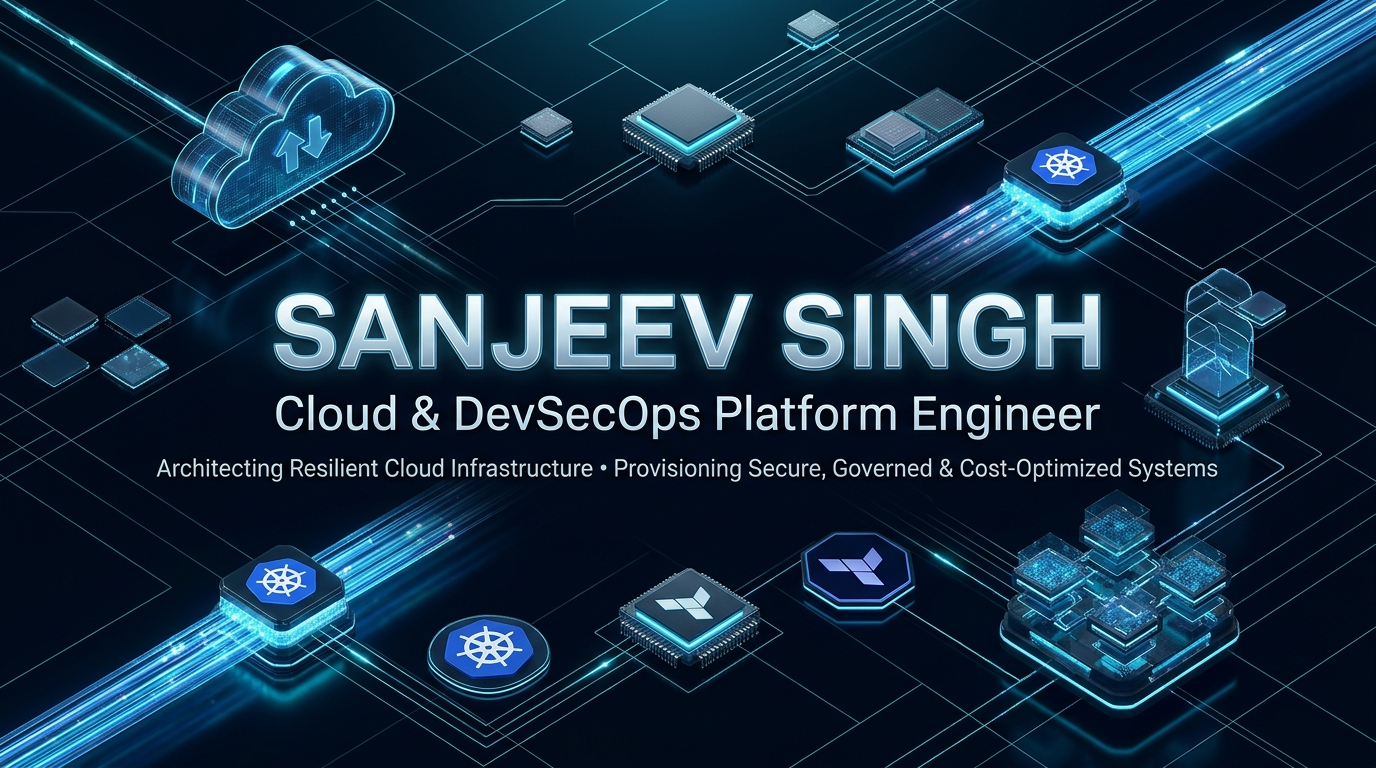
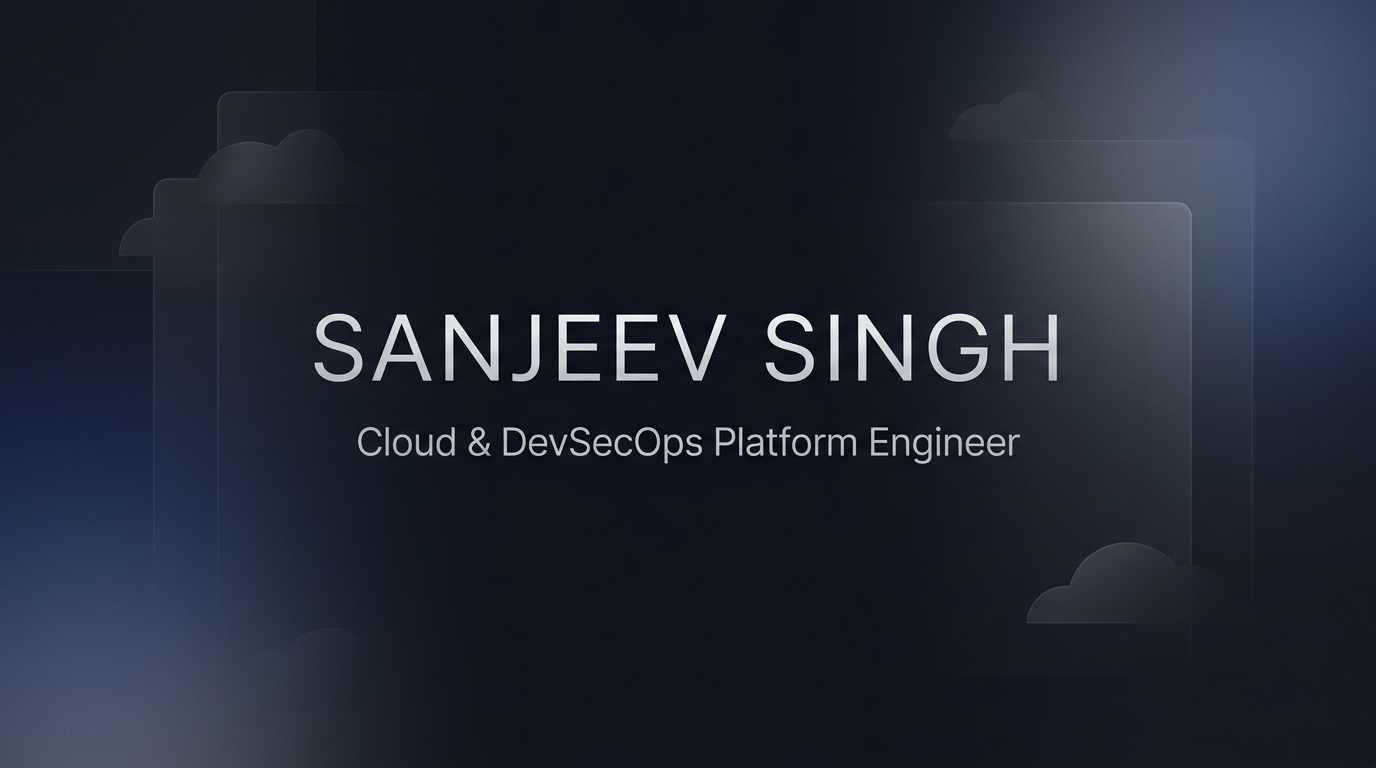
style(profile): switch to calm luxury frosted aesthetic, 720px card width, and authoritative legacy headline

diff --git a/README.md b/README.md
@@ -1,13 +1,13 @@
 <div align="center">
 
-<!-- Hero Banner (Optimized 850px Width, Modern Sans-Serif Typography) -->
+<!-- Hero Banner (Compact 720px Width, Calm Soft Luxury Minimalist Aesthetic) -->
 <p align="center">
-  <img src="./assets/banner.png" alt="Sanjeev Singh - Cloud & DevSecOps Platform Engineer" width="850" style="max-width: 100%; height: auto; border-radius: 10px;">
+  <img src="./assets/banner.png" alt="Sanjeev Singh - Cloud & DevSecOps Platform Engineer" width="720" style="max-width: 100%; height: auto; border-radius: 12px;">
 </p>
 
 <!-- Animated Dynamic Typing Banner -->
 <a href="https://linkedin.com/in/sanjiivsingh">
-  <img src="https://readme-typing-svg.demolab.com?font=Fira+Code&weight=600&size=20&duration=3000&pause=1000&color=0078D4&background=0d111700&center=true&vCenter=true&width=850&height=45&lines=Cloud+%26+DevSecOps+Platform+Engineer;Architecting+Resilient+Cloud+Infrastructure;Provisioning+Secure%2C+Governed+%26+Cost-Optimized+Systems;Enterprise+Terraform+IaC+%7C+Reusable+Child+Modules;Zero-Trust+Security+%7C+Shift-Left+DevSecOps+Guardrails;Kubernetes+(AKS)+%7C+Docker+%7C+Automated+CI%2FCD" alt="Typing Animation" />
+  <img src="https://readme-typing-svg.demolab.com?font=Fira+Code&weight=600&size=18&duration=3000&pause=1000&color=38BDF8&background=0d111700&center=true&vCenter=true&width=720&height=42&lines=Cloud+%26+DevSecOps+Platform+Engineer;Architecting+Resilient+Cloud+Infrastructure;Provisioning+Secure%2C+Governed+%26+Cost-Optimized+Systems;Enterprise+Terraform+IaC+%7C+Reusable+Child+Modules;Zero-Trust+Security+%7C+Shift-Left+DevSecOps+Guardrails;Kubernetes+(AKS)+%7C+Docker+%7C+Automated+CI%2FCD" alt="Typing Animation" />
 </a>
 
 <br>
@@ -45,8 +45,7 @@
 
 <!-- Fast Navigation Menu -->
 <p align="center">
-  <a href="#-executive-video-intro--tech-ambient-soundscape"><b>Video &amp; Soundscape</b></a> •
-  <a href="#-cloud-infrastructure--devsecops-architecture"><b>Executive Profile</b></a> •
+  <a href="#-enterprise-engineering-philosophy--production-track-record"><b>Engineering Philosophy</b></a> •
   <a href="#-devsecops-pipeline--continuous-delivery-architecture"><b>DevSecOps Pipeline</b></a> •
   <a href="#-featured-engineering-projects"><b>Featured Projects</b></a> •
   <a href="#-core-technical-stack--skills-matrix"><b>Skills Matrix</b></a> •
@@ -59,45 +58,16 @@
 
 ---
 
-# 🎙 Executive Video Intro & Tech Ambient Soundscape
-
-<div align="center">
-
-<p align="center">
-  <a href="https://sanjeevsingh.oneps.in">
-    <img src="./assets/media-player.svg" alt="Executive Video Intro & Continuous Tech Ambient Sound" width="850" style="max-width: 100%; height: auto; border-radius: 10px;" />
-  </a>
-</p>
-
-<p align="center">
-  <a href="https://sanjeevsingh.oneps.in" target="_blank">
-    <img src="https://img.shields.io/badge/▶_Watch_Video-Architecture_Walkthrough_(2:15)-0078D4?style=for-the-badge&logo=youtube&logoColor=white" alt="Watch Video" />
-  </a>
-  <a href="https://open.spotify.com/playlist/37i9dQZF1DXdLEN7aqioXM" target="_blank">
-    <img src="https://img.shields.io/badge/🎧_Play_Ambient_Tech-Spotify_Focus_Beats-1DB954?style=for-the-badge&logo=spotify&logoColor=white" alt="Play Spotify" />
-  </a>
-  <a href="https://soundcloud.com/search?q=cyberpunk%20synthwave%20ambient%20focus" target="_blank">
-    <img src="https://img.shields.io/badge/🔊_Play_Synthwave-SoundCloud_Stream-FF5500?style=for-the-badge&logo=soundcloud&logoColor=white" alt="Play SoundCloud" />
-  </a>
-</p>
-
-</div>
-
-> [!NOTE]
-> **Interactive Multimedia Experience:** GitHub Markdown sanitization prevents unprompted background audio autoplay. Click the interactive media player or quick-launch badges above to launch the architecture walkthrough and stream continuous low-latency ambient tech focus music while exploring the repositories below.
-
----
-
-# ⚡ Cloud Infrastructure & DevSecOps Architecture
+# 🏛 Enterprise Engineering Philosophy & Production Track Record
 
 I am a **Cloud & DevSecOps Platform Engineer** with **10+ years of professional engineering and banking governance experience**, including **5+ years architecting Microsoft Azure platforms, modular Terraform IaC, and automated CI/CD security guardrails**.
 
-### 💼 Engineering Impact at a Glance:
-- **High-Concurrency Production Systems:** Automated and operated Azure infrastructure for a US-based futures proprietary trading platform supporting high concurrent load, achieving zero-drift modular IaC and rapid deployment cycles.
-- **Enterprise DevSecOps Guardrails:** Shift-left security specialist enforcing automated quality gates (**TFLint**, **Checkov**, **tfsec**, **Trivy**, and **Gitleaks**) directly inside GitHub Actions and Azure DevOps pipelines.
-- **Banking Governance & Risk Rigor:** 4+ years as **Assistant Manager – Banking Operations / Risk & Compliance at State Bank of India (SBI)**, translating institutional risk controls, least-privilege RBAC, and audit readiness directly into cloud infrastructure.
+### 💼 Three-Pillar Engineering Legacy & Production Track Record:
+- **High-Concurrency Trading Systems at Scale:** Automated and operated Azure infrastructure for a US-based futures proprietary trading platform supporting high concurrent load, achieving zero-drift modular IaC, automated multi-stage rollouts, and sub-minute recovery.
+- **Enterprise DevSecOps & Shift-Left Guardrails:** Automated security specialist enforcing rigorous quality gates (**TFLint**, **Checkov**, **tfsec**, **Trivy**, and **Gitleaks**) directly inside GitHub Actions and Azure DevOps pipelines to preemptively eliminate vulnerabilities before code merge.
+- **Institutional Risk & Banking Governance Heritage:** 4+ years as **Assistant Manager – Banking Operations / Risk & Compliance at State Bank of India (SBI)**, translating institutional risk controls, least-privilege RBAC, and audit readiness directly into cloud infrastructure.
 
-### 🎯 Business Value Delivered
+### 🎯 Measurable Business Value Delivered
 
 | Domain | Architectural Deliverable | Measurable Impact |
 | :--- | :--- | :--- |
@@ -444,7 +414,7 @@ Whether you are building out **Enterprise Azure Landing Zones**, adopting **Terr
 <div align="center">
 
 <p align="center">
-  <img src="./assets/footer.png" alt="Let's Build Something Extraordinary" width="850" style="max-width: 100%; height: auto; border-radius: 10px;">
+  <img src="./assets/footer.png" alt="Let's Build Together" width="720" style="max-width: 100%; height: auto; border-radius: 12px;">
 </p>
 
 <br>
